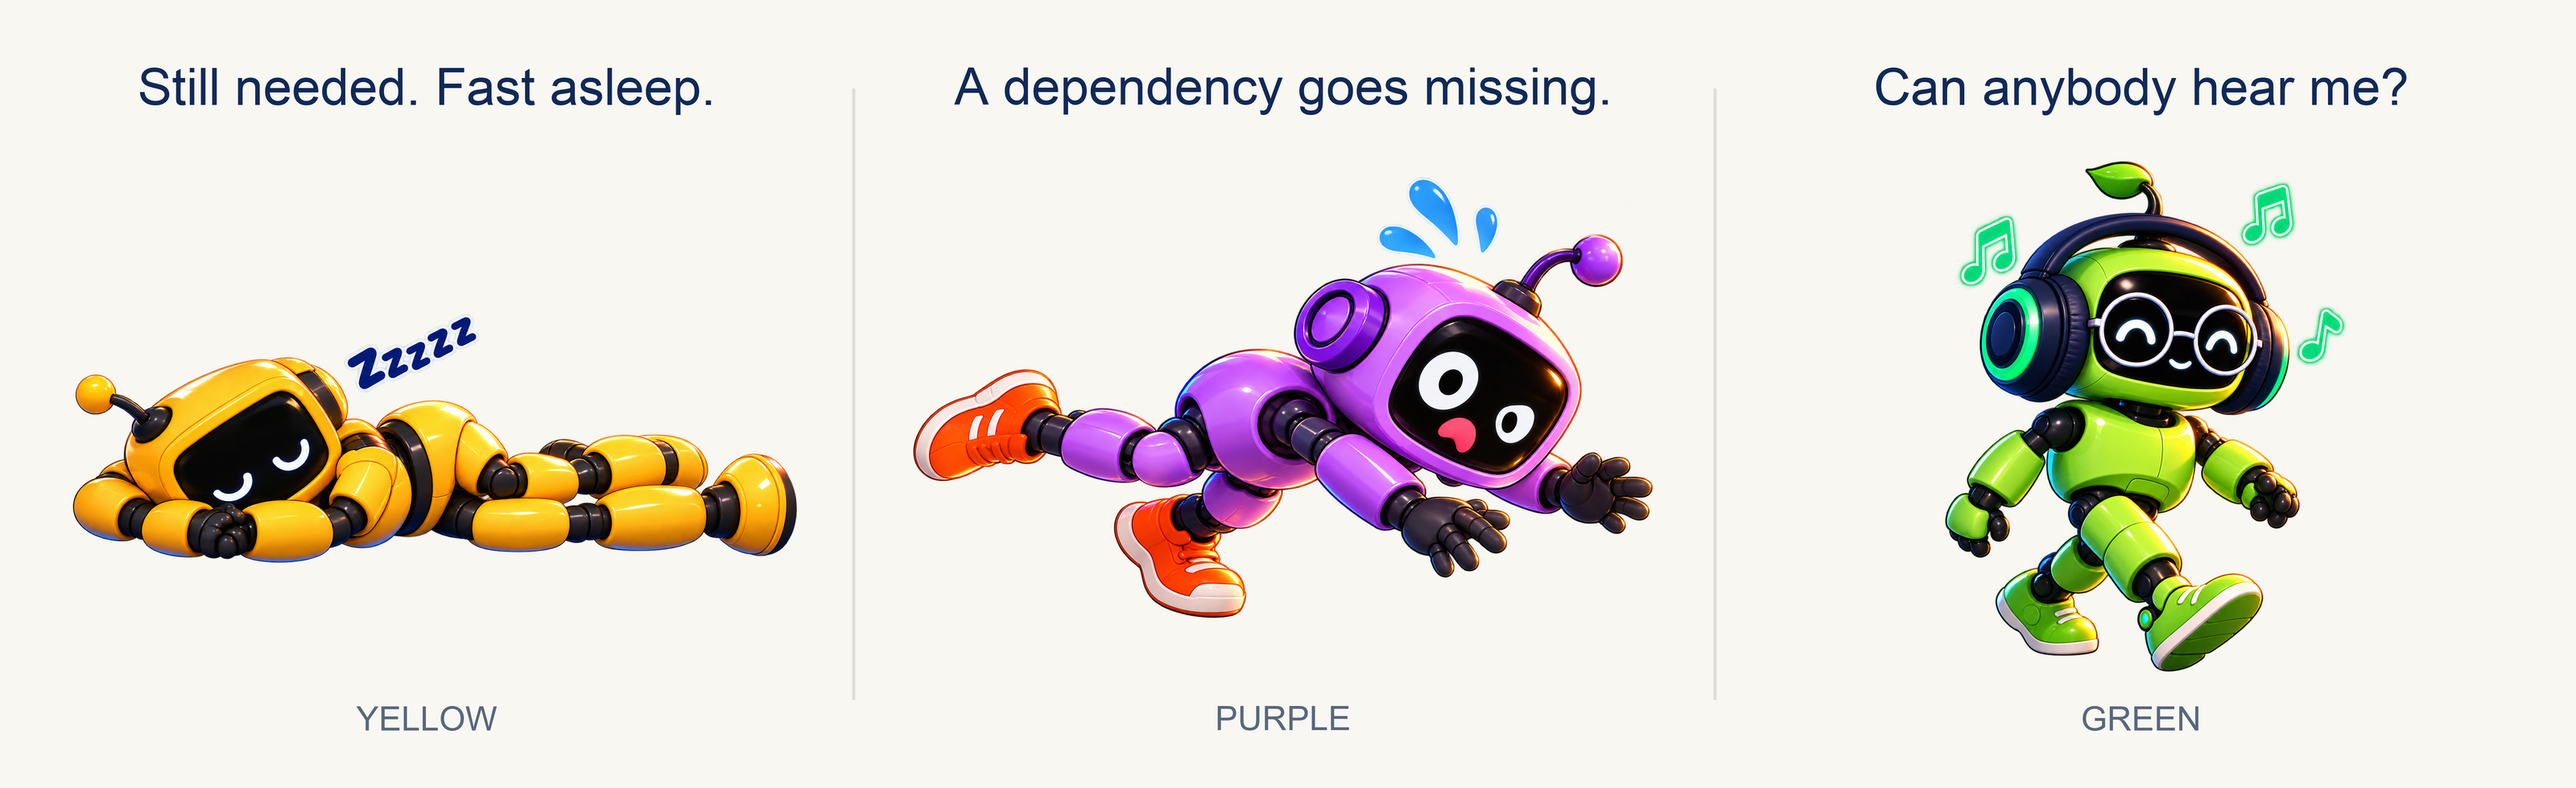
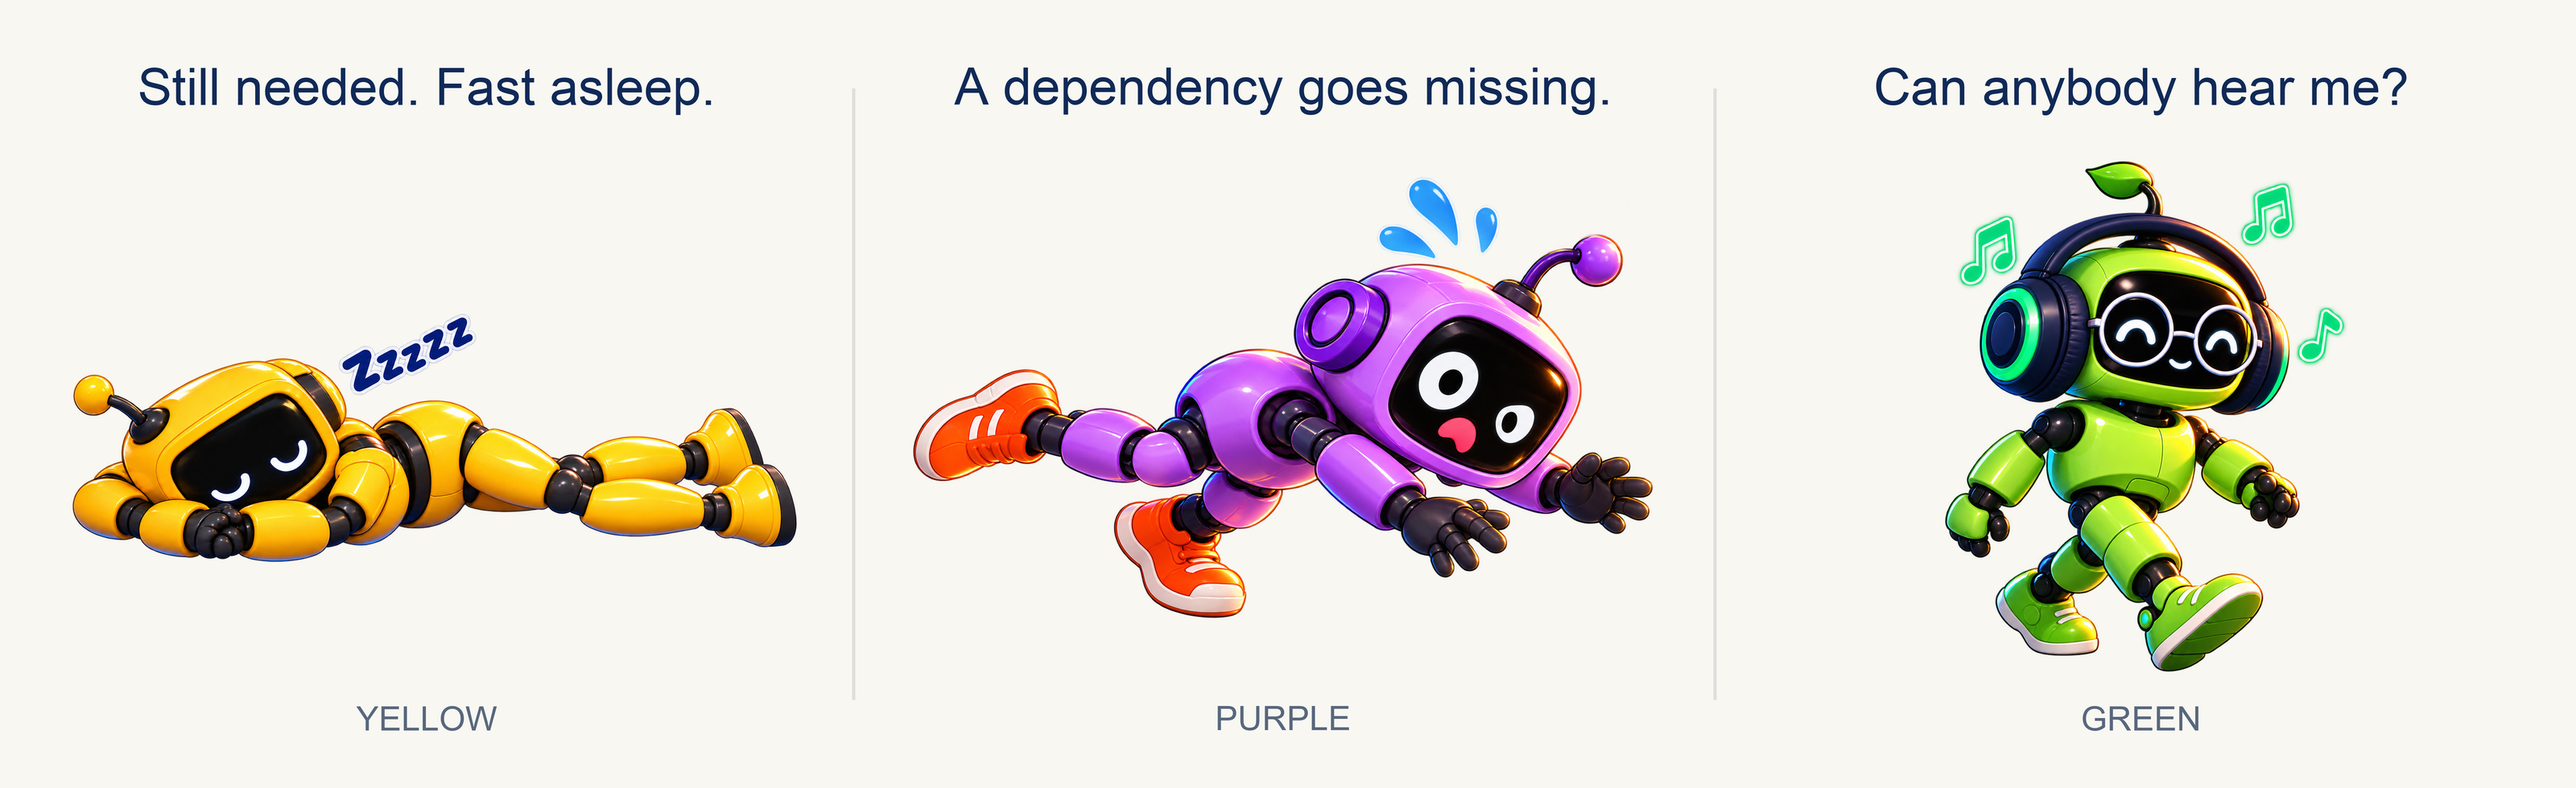
Replace Yellow with the corrected sleeping character render
Recompose the original panel with the approved transparent cutout. Preserve the other friends, layout, and high-resolution text.

By: Stella

Changed region(s): [[0.0312, 0.398, 0.3125, 0.7347]]

diff --git a/brand/compose_explainer.py b/brand/compose_explainer.py
@@ -105,7 +105,7 @@ for x in [530,1065]: d.line([(x,55),(x,435)],fill='#dedfdc',width=2)
 text(d,(265,42),'Still needed. Fast asleep.',32,anchor='mt')
 text(d,(797,42),'A dependency goes missing.',32,anchor='mt')
 text(d,(1330,42),'Can anybody hear me?',32,anchor='mt')
-asset(im,'yellow.png',(45,195),450)
+asset(im,'yellow-v2.png',(45,195),450)
 asset(im,'purple.png',(567,110),460)
 asset(im,'green.png',(1208,100),250)
 text(d,(265,439),'YELLOW',21,MUTED,'mt');text(d,(797,439),'PURPLE',21,MUTED,'mt');text(d,(1330,439),'GREEN',21,MUTED,'mt')

diff --git a/docs/ASSET-PROVENANCE.md b/docs/ASSET-PROVENANCE.md
@@ -11,6 +11,7 @@ original font record moved from Nova Tools on 2026-10-04.
 | `brand/starting-blocks/composite.png` | **Earlier README hero**, composed on 2026-10-05 from a fresh transparent starting-blocks friend, the separate flat wordmark, and a track plate with the grass removed. OpenAI image generation supplied the source renders; deterministic compositing places them without regenerating the assembled image. Original PNGs, prompt, and placement record remain in `brand/starting-blocks/`. PNG, 2170 × 725. |
 | `brand/jogging/banner-centered.png` | **Earlier jogging hero**, generated with the built-in OpenAI image tool on 2026-10-05. At Glenn's request, the complete banner was rendered together: a happy jogging, waving mascot and flat wordmark. The final layout centres them as one group. Approved by Glenn; original 2168 × 725 lossless PNG copied unchanged. Final prompt and earlier layout variants are in `brand/jogging/`. |
 | `brand/jogging/banner-cute-wave-left.png` | **Current README hero**, approved by Glenn on 2026-10-05. Built-in OpenAI image generation matched the preferred runner's cuter rounded proportions while retaining the jogging-and-waving pose, then refined the spacing between mascot and wordmark. Original 2171 × 724 lossless PNG copied without conversion or resampling. Prompt: `brand/jogging/prompt-cute-wave-left.txt`; source and intermediate variants are preserved alongside it. |
+| `brand/yellow-v2.png` | **Corrected sleeping friend**, freshly rendered with the built-in OpenAI image tool on 2026-10-05 at Glenn's request and approved for the explainer. Corrects the malformed lower legs to two knees, two shins, and two feet while retaining the sleepy pose. Transparent 1774 × 887 lossless PNG; original bytes preserved. Prompt: `brand/yellow-v2-prompt.txt`. The original `brand/yellow.png` is retained. |
 | `assets/nova-sprint-dashboard.jpg` | **Dashboard preview** captured with the Codex browser on 2026-10-05 from the public demo at `http://69.67.149.151/`. Its rendered markup and displayed values were saved locally, then the LANDED tile was simplified to one line at Glenn's request, matching the accompanying source change. The Cost breakdown and Work tables are folded. The numbers are the captured values, not a fixed performance claim. This previews the requested layout; it does not claim that the live demo has been deployed with that change. |
 
 The artwork extends the Nova Tools workshop and Nova Seed garden's friendly
@@ -28,8 +29,8 @@ the jogging banner and panels made from this set.
 The illustrated [README](../README.md) uses five panels from the six-panel
 lossless PNG set in `brand/explainer/`, composed on 2026-10-05 from those
 individual assets and the later starting-blocks render. Their labels and workflow
-diagrams are drawn by `brand/compose_explainer.py`; no source character was
-regenerated. All six panels are drawn at 4× logical resolution and exported as 2× PNGs
+diagrams are drawn by `brand/compose_explainer.py`. Yellow was subsequently
+re-rendered with corrected leg anatomy; the other source characters are unchanged. All six panels are drawn at 4× logical resolution and exported as 2× PNGs
 with antialiased type, boxes, dividers, checkmarks, and rounded connectors.
 Arial is rasterised from the locally installed font, not bundled.
 The starting-blocks source, prompt, and composition live in

diff --git a/brand/README.md b/brand/README.md
@@ -16,7 +16,7 @@ when using the individual assets in illustrations and documentation.
 | Character | Meaning |
 |---|---|
 | [Little robot with the checklist](stella.png) | The coordinator. |
-| [Sleeping yellow friend](yellow.png) | Friends falling asleep when they should be working together. |
+| [Sleeping yellow friend](yellow-v2.png) | Friends falling asleep when they should be working together. |
 | [Green friend with headphones](green.png) | Friends who cannot hear their teammates: messages and coordination do not reach them. |
 | [Tripping purple friend](purple.png) | A friend failing at their task because a dependency is blocked on another friend who has fallen asleep. |
 | [Pink friend on a bike](pink-cyclist.png) | A friend having fun and moving forward at her own pace. |
@@ -37,7 +37,10 @@ The six panels in `explainer/` are deterministic compositions of the original
 PNG assets, with drawn diagrams and text. Rebuild with
 `python3 brand/compose_explainer.py` (Pillow); set `NOVA_BRAND_FONT` to a local
 Arial-compatible TrueType font when the default macOS Arial path is unavailable.
-No character was regenerated for the explainer.
+Yellow was re-rendered separately to correct the leg anatomy; the approved
+replacement is [yellow-v2.png](yellow-v2.png), with its
+[prompt](yellow-v2-prompt.txt). The original remains in the archive.
+The other characters use their original renders.
 
 ## Approved jogging banner
 
@@ -100,7 +103,7 @@ with the wordmark on a separate white panel. These earlier options are retained 
 | Stella, the roller coordinator | [stella.png](stella.png) |
 | Green friend with headphones | [green.png](green.png) |
 | Orange friend fleeing the swarm | [orange.png](orange.png) |
-| Sleeping yellow friend | [yellow.png](yellow.png) |
+| Sleeping yellow friend | [yellow-v2.png](yellow-v2.png) |
 | Purple friend stumbling | [purple.png](purple.png) |
 | Pink friend riding a bike | [pink-cyclist.png](pink-cyclist.png) |
 | White-and-blue sprinter | [white.png](white.png) |
